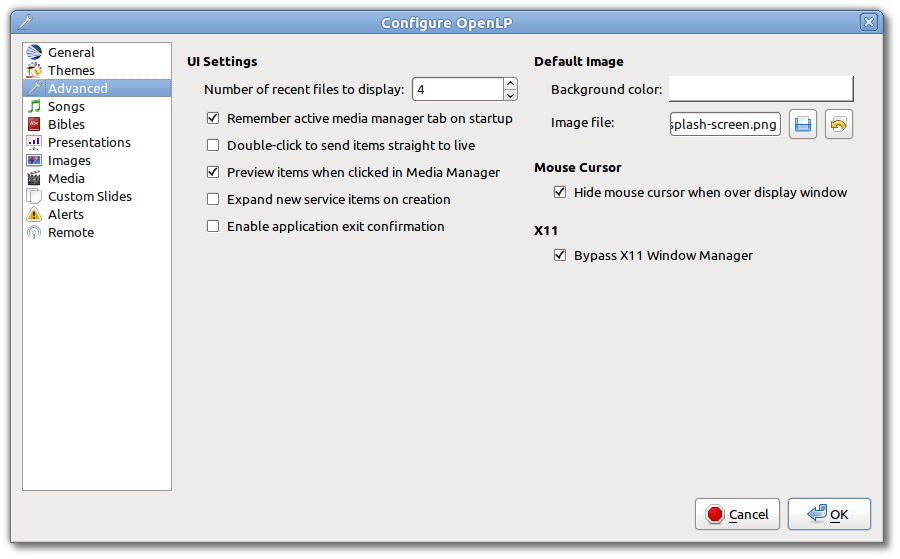
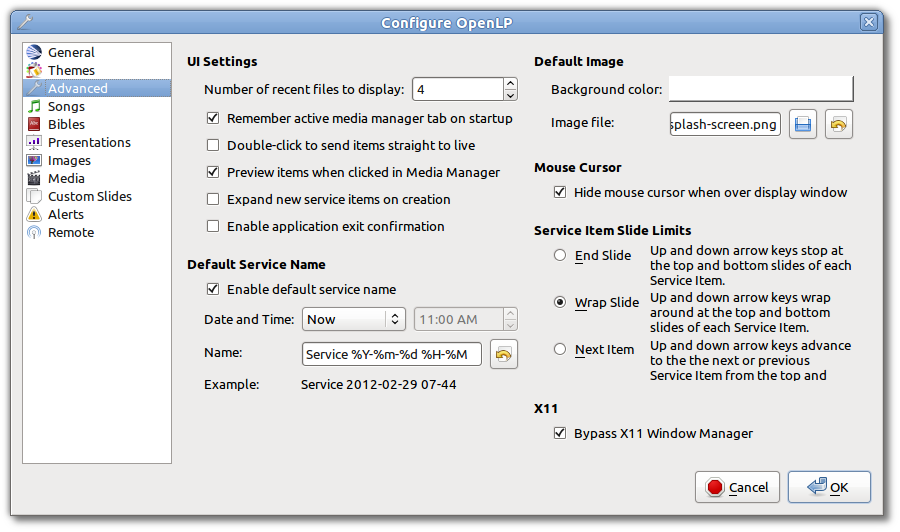
configue advanced updates

diff --git a/manual/source/configure.rst b/manual/source/configure.rst
@@ -67,14 +67,6 @@ Application Settings
   When this box is selected, the next item in the :ref:`creating_service` will 
   be displayed in the Preview pane.
 
-**Enable slide wrap-around:**
-  When this box is selected the lyrics, images or Bible verses will wrap-around. 
-  When you reach the last slide of a song or verse and :kbd:`Down Arrow` you 
-  will be back on the first slide. Likewise if you are on the first slide and 
-  :kbd:`Up Arrow` you will wrap-around to the last slide of the song, images or 
-  Bible verses. If this box is not checked it will not wrap-around to the 
-  beginning or end of the song or verse.
-
 **Timed slide interval:**
   This setting is the time delay in seconds. This is used to continuously loop 
   a group of images, verses, or the lyrics in a song. This control timer is 
@@ -173,6 +165,38 @@ UI Settings (user interface)
   With this box selected, on closing OpenLP you will be presented with a dialog
   box to confirm closing the program.
 
+Default Service Name
+^^^^^^^^^^^^^^^^^^^^
+
+The default service name gives you the ability to have a preset name, date and 
+time when saving your service file.
+
+**Enable default service name:**
+  Checking this box will activate the use of the default service name.
+
+**Date and Time:**
+  You can choose the regular day of the week and time of the service or choose 
+  :guilabel:`Now` from the dropdown for the immediate date and time to save your 
+  service file.
+
+**Name:**
+  You can change "Service" to a default name of your choosing. The year, month 
+  day, hour and minute will default to what you have set for 
+  :guilabel:`Date and Time` above or if you chose :guilabel:`Now` the saved file 
+  will have the time and date that you save it.
+
+|buttons_revert| **Revert:**
+  Clicking this button will erase your changes and revert to the default service name. 
+
+**Example:**
+  The example shows how the name, date and time will be displayed for the file 
+  name when saving the file.
+
+**Note:** If the date and time format does not suit your needs and you are 
+technically inclined, there is more information at 
+`Python.org <http://docs.python.org/library/datetime.html#strftime-strptime-behavior>`_.
+
+
 Default Images
 ^^^^^^^^^^^^^^
 
@@ -194,6 +218,24 @@ Mouse Cursor
 **Hide mouse cursor when over display window:**
   With this box selected your mouse cursor will not be visible if you move it 
   from Display 1 onto Display 2. 
+
+Service Item Slide Limits
+^^^^^^^^^^^^^^^^^^^^^^^^^
+
+These three settings control 
+
+**End Slide:**
+  Up and down arrow keys stop at the top and bottom slides of each Service item.
+
+**Wrap Slide:**
+  Up and down arrow keys wrap around at the top and bottom slides of each 
+  Service item, eg: When you reach the last slide of a song or verse and 
+  :kbd:`Down Arrow` you will be back on the first slide. Likewise if you are on 
+  the first slide and :kbd:`Up Arrow` you will wrap-around to the last slide of 
+  the song, images or Bible verses.
+
+**Next Slide:**
+  Up and down arrow keys advance to the 
 
 X11
 ^^^
@@ -489,7 +531,11 @@ where x is one to three digits long.
 
 Open *Terminal* and type::
 
-  linux@user:~$ifconfig 
+  linux@user:~$ifconfig
+
+Some Linux systems will require the full path::
+
+  linux@user:~$/sbin/ifconfig 
 
 Press the :kbd:`Enter` key. This will display a fair amount of technical 
 information about your network cards. On most computers, the network card is 
